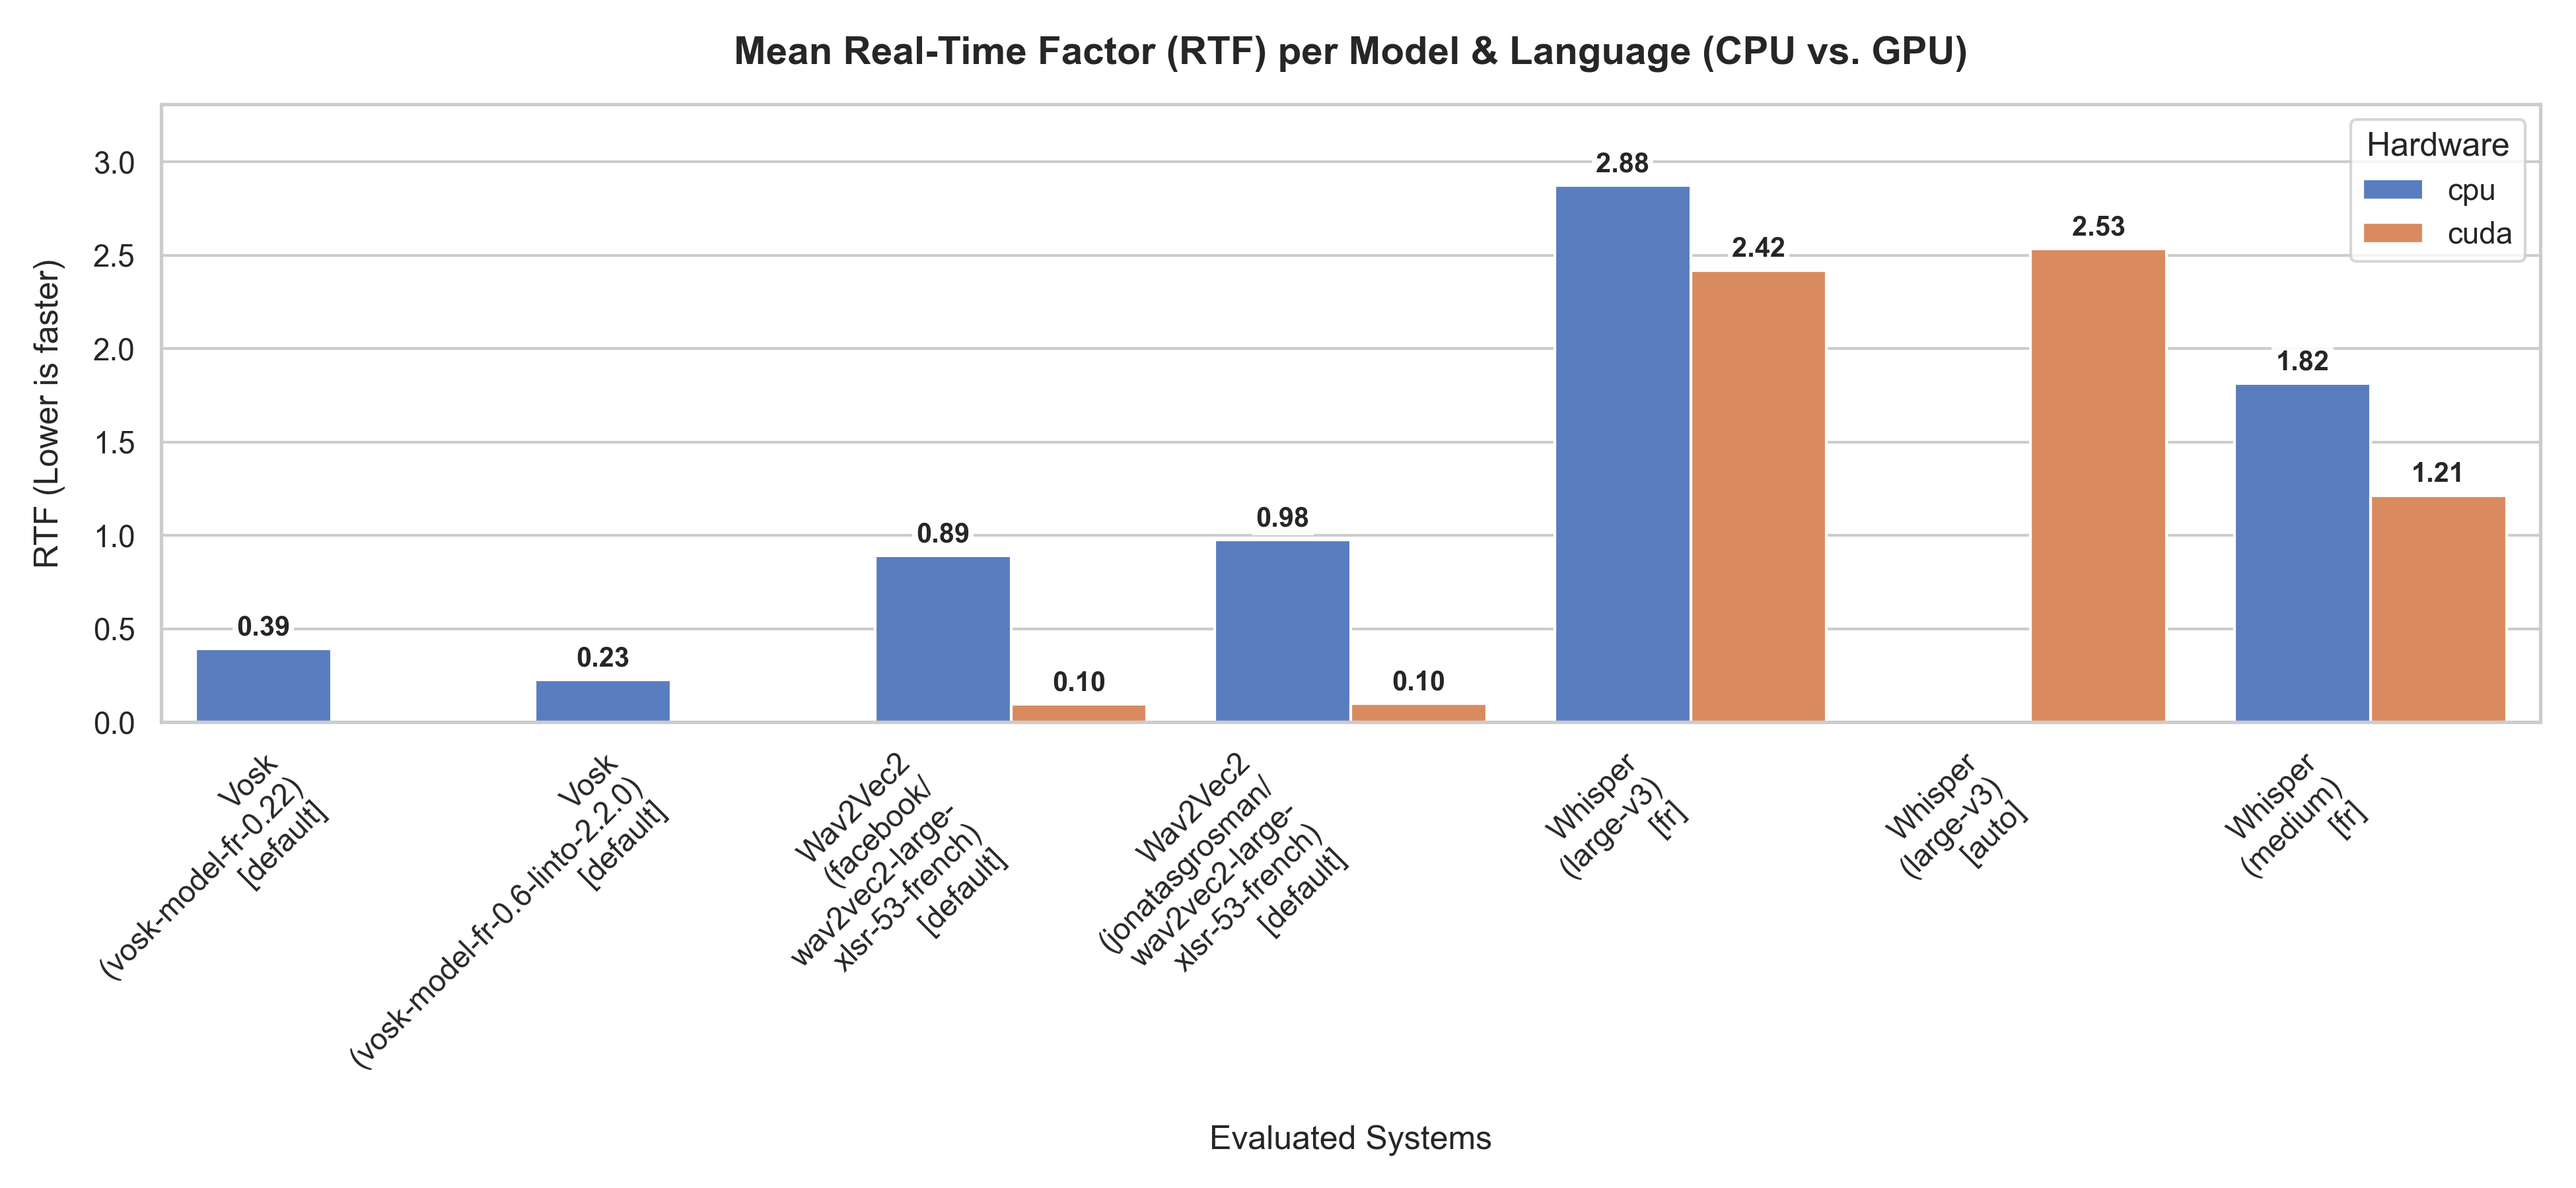
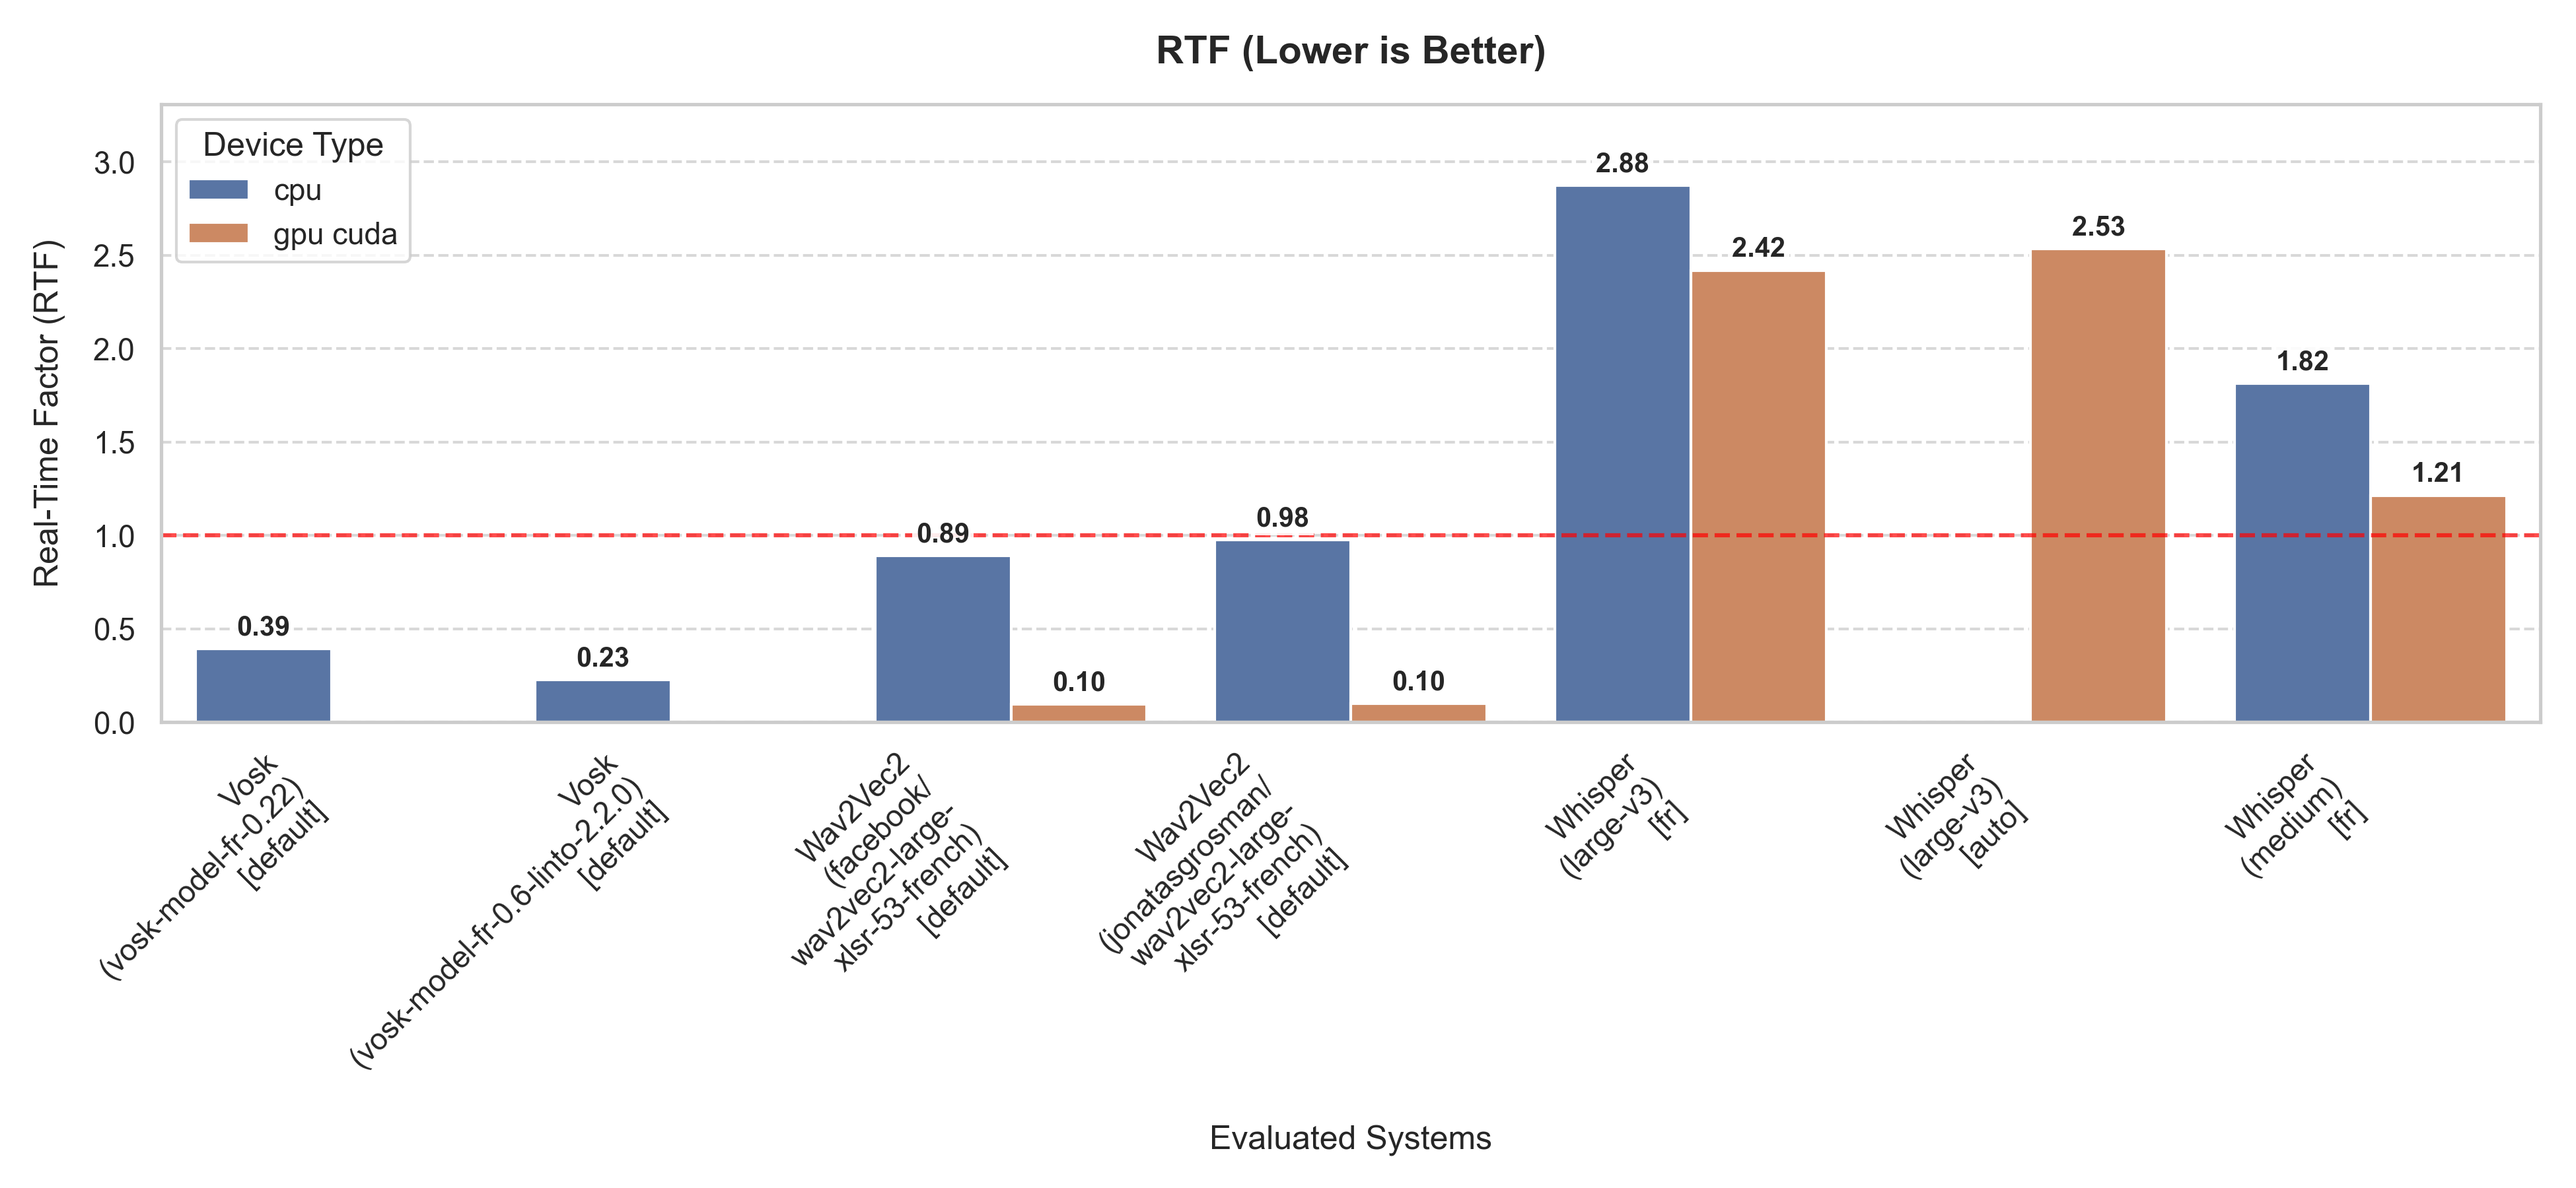
Updated RTF transcription graph to look like the separation one for presentation, updated the code for that, updated the README to reference the images right and to show statuses that i am finished with diploma thesis for now.

diff --git a/Evaluation/evaluate_transcription.py b/Evaluation/evaluate_transcription.py
@@ -563,21 +563,54 @@ class TranscriptionEvaluator:
             
             # --- RTF Plot (CPU vs GPU split, grouped by System/Language) ---
             plt.figure(figsize=(13, 6)) # Bumped slightly wider to accommodate extra language bars
-            ax = sns.barplot(data=summary, x='System', y='rtf', hue='device', palette="muted", ci=None)
             
-            plt.title("Mean Real-Time Factor (RTF) per Model & Language (CPU vs. GPU)", fontsize=14, pad=15, weight='bold')
-            plt.ylabel("RTF (Lower is faster)", fontsize=12, labelpad=10)
+            # 1. Normalize the device names for the legend
+            summary['device_clean'] = summary['device'].astype(str).str.lower().replace({
+                'cuda': 'gpu cuda',
+                'gpu': 'gpu cuda'
+            })
+            
+            # 2. Explicit color mapping to match the Separation graphs (Blue/Orange)
+            device_colors = {
+                'cpu': '#4C72B0',        # Muted Blue
+                'gpu cuda': '#DD8452'    # Muted Orange
+            }
+            
+            ax = sns.barplot(
+                data=summary, 
+                x='System', 
+                y='rtf', 
+                hue='device_clean', 
+                palette=device_colors,
+                hue_order=['cpu', 'gpu cuda'],
+                ci=None
+            )
+            
+            # 3. Refine the Grid: Place lines behind bars
+            ax.set_axisbelow(True)
+            ax.yaxis.grid(True, color='gray', linestyle='--', alpha=0.3)
+            ax.xaxis.grid(False)
+            
+            # 4. Add the red horizontal threshold line at Y = 1.0 (Real Time)
+            plt.axhline(1.0, color='red', linestyle='--', alpha=0.7)
+            
+            # 5. Update Titles and Labels to match
+            plt.title("RTF (Lower is Better)", fontsize=14, pad=15, weight='bold')
+            plt.ylabel("Real-Time Factor (RTF)", fontsize=12, labelpad=10)
             plt.xlabel("Evaluated Systems", fontsize=12, labelpad=10)
             plt.xticks(rotation=45, ha="right")
             
             ax.set_ylim(0, summary['rtf'].max() * 1.15)
+            
             for container in getattr(ax, 'containers', []):
                 ax.bar_label(
                     container, fmt='%.2f', padding=3, weight='bold', fontsize=10,
                     bbox=dict(facecolor='white', edgecolor='none', pad=1.5, alpha=0.9)
                 )
 
-            plt.legend(title='Hardware')
+            # 6. Update Legend Title and position
+            plt.legend(title='Device Type', loc='upper left')
+            
             plt.tight_layout()
             plt.savefig(self.plots_dir / "Trans_RTF_Comparison.png", dpi=300)
             plt.close()

diff --git a/README.md b/README.md
@@ -1,6 +1,9 @@
 # Diploma thesis: Audio Separation & Transcription Tool
 
 [![Project Status](https://img.shields.io/badge/Status-Work%20in%20Progress-yellow)](#TODO)
+[![Project Status](https://img.shields.io/badge/Status-Paused-orange)](#Support)
+[![Project Status](https://img.shields.io/badge/Status-Unmaintained-red)](#Support)
+[![Project Status](https://img.shields.io/badge/Status-Completed-success)](#Support)
 
 A desktop application for separating audio files into vocals and instrumentals using AI-powered tools (Spleeter, Demucs, and OpenUnmix). Furthermore, it supports advanced speech-to-text transcription using multiple tools (Whisper, Wav2Vec2, Vosk) with speaker diarization support (Vosk). Built with Python and CustomTkinter for a modern GUI.
 
@@ -29,7 +32,7 @@ A desktop application for separating audio files into vocals and instrumentals u
 * **Real-time Progress Tracking**: Modal progress window with detailed step-by-step logging, error catching, and safe cancellation support.
 * **Cross-Platform Compatibility**: Works natively on Windows, macOS, and Linux.
 
-![Input Tab](screenshots/Input.png)
+![Input Tab](screenshots/input_tab.png)
 
 ## Installation
 
@@ -128,34 +131,34 @@ This will tell `pip` to download the standard CPU version of PyTorch instead, sa
 ## 📸 Screenshots & Features
 
 ### Welcome Tutorial Screen
-![Welcome Screen](screenshots/welcome.png)
+![Welcome Screen](screenshots/welcome_tutorial.png)
 
 *A built-in interactive Welcome Tutorial highlights key UI elements to help new users get started instantly.*
 
 ### Main Interface (Input & Separation Menu)
-![Input Tab](screenshots/Input.png)
+![Input Tab](screenshots/input_tab.png)
 
 *The modern interface featuring the Input tab. Manage files with interactive inline controls (Play, Info, Delete) and configure your output using the dynamic Separation Menu.*
 
 ### Audio Inspector
-![Audio Inspector](screenshots/Information.png)
+![Audio Inspector](screenshots/inspector.png)
 
 *Clicking the 'i' (Information) button on any track opens the Audio Inspector. Easily view track metadata and use the "Sync" buttons to match your output settings to the original file perfectly.*
 
 ### Dynamic Separation Settings
-![Demucs Options](screenshots/demucs_mp3.png) 
-![Demucs Options WAV](screenshots/demucs_wav.png) 
-![OpenUnmix Models](screenshots/OpenUnmix_models.png)
-![Spleeter Options](screenshots/mp3.png) 
+![Spleeter Options](screenshots/flac.png) 
+![Demucs Options](screenshots/demucs.png) 
+![OpenUnmix Models](screenshots/OpenUnmix.png)
+
 
 *The Separation Menu adapts based on the selected AI tool (Spleeter, Demucs, OpenUnmix), offering granular control over formats (MP3, WAV, FLAC), bitrates, shifts, and specific model selection.*
 
 ### Output Management & Transcription
-![Separation Output](screenshots/separation_output_tab.png)
+![Separation Output](screenshots/sep_output_tab.png)
 
 *The Separated Output tab neatly organizes generated Vocals and Instrumentals. Select isolated tracks here and use the right-hand Transcription Menu (Whisper, Wav2Vec2, Vosk) to generate text.*
 
-![Transcription Output](screenshots/transcription_output_tab.png)
+![Transcription Output](screenshots/trans_output_tab.png)
 
 *A dedicated tab for managing, viewing, and opening your generated transcriptions.*
 
@@ -165,34 +168,37 @@ This will tell `pip` to download the standard CPU version of PyTorch instead, sa
 *Customize your experience: toggle Dark/Light mode, change the UI color theme, adjust scaling, and manage default directories or offline AI models.*
 
 ### Real-Time Progress
-![Progress Status Modal](screenshots/modal.png) ![Progress Status Load](screenshots/progress_transcription_load.png) 
-![Progress Status Loading](screenshots/modal_progress.png) ![Progress Status Transcription](screenshots/progress_transcription.png) 
-![Progress Status Done](screenshots/modal_done.png) ![Progress Status Transcription 2](screenshots/progress_transcription2.png) 
-![Progress Status Flush](screenshots/modal_flush.png)
+**Separation Processing:**
+![Separation Initial](screenshots/demucs_initial.png) ![Separation Progress](screenshots/demucs_progress.png) ![Separation Complete](screenshots/demucs_progress2.png)
+
+**Transcription Processing:**
+![Transcription Preprocessing](screenshots/trans_preprocesing.png) ![Transcription Whisper](screenshots/whisper_progress.png) ![Transcription Whisper 2](screenshots/whisper_progress2.png) 
+
+![Transcription Vosk](screenshots/Vosk_progress.png) ![Transcription Vosk 2](screenshots/Vosk_progress2.png)
 
 *Keep track of heavy AI processing with real-time status updates, modal windows, and progress bars directly at the bottom of the window.*
 
 ### Completion Window
 ![Batch Window](screenshots/Batch_info.png) 
-![Batch Window](screenshots/Batch_info_transcription.png)
+![Batch Processing Status](screenshots/progress_batch.png)
 
 *Non-blocking pop-up windows informing the user of the names of the output files and the success count.*
 
 ## TODO 
-![Project Status](https://img.shields.io/badge/Status-Work%20in%20Progress-yellow)
+![Project Status](https://img.shields.io/badge/Status-In%20Progress-blue)
 
-This project is actively developed. Planned features and fixes include:
+This project is actively developed. Current status and planned features:
 
-* [ ] SDR evaluation of tools on provided dataset.
-* [x] Transcription tool repair.
-* [x] Add support for batch processing multiple songs at once.
-* [x] Implement transcription options (second choice: Vosk, Wav2Vec2).
-* [x] Improve error handling and logging for separation failures.
-* [ ] Optimize performance for large files (e.g., GPU acceleration for Whisper/Separation).
-* [ ] Cross-platform testing and packaging (e.g., via PyInstaller).
-* [ ] Documentation: Add more detailed guides and API references for custom separators. Proper credits for used libraries.
+* ✅ SDR evaluation of tools on provided dataset.
+* ✅ Transcription tool repair.
+* ✅ Add support for batch processing multiple songs at once.
+* ✅ Implement transcription options (second choice: Vosk, Wav2Vec2).
+* ✅ Improve error handling and logging for separation failures.
+* ✅ Optimize performance for large files (e.g., GPU acceleration for Whisper/Separation).
+* ☐ Cross-platform testing and packaging (e.g., via PyInstaller).
+* ☐ Documentation: Add more detailed guides and API references for custom separators. Proper credits for used libraries.
 
-Feel free to suggest features via issues!
+Feel free to suggest features via issues or by emailing me!
 
 ## License
 
@@ -212,8 +218,9 @@ This project is licensed under the MIT License - see the LICENSE file for deta
 
 ## Support
 
+If you encounter issues, check the console output or log file for errors or open a GitHub issue. 
 
-If you encounter issues, check the console output for errors or open a GitHub issue. For questions, reach out via \[ 240642@vut.cz \].
+For questions, reach out via \[ krivanekroman76@gmail.com\].
 
 
 
